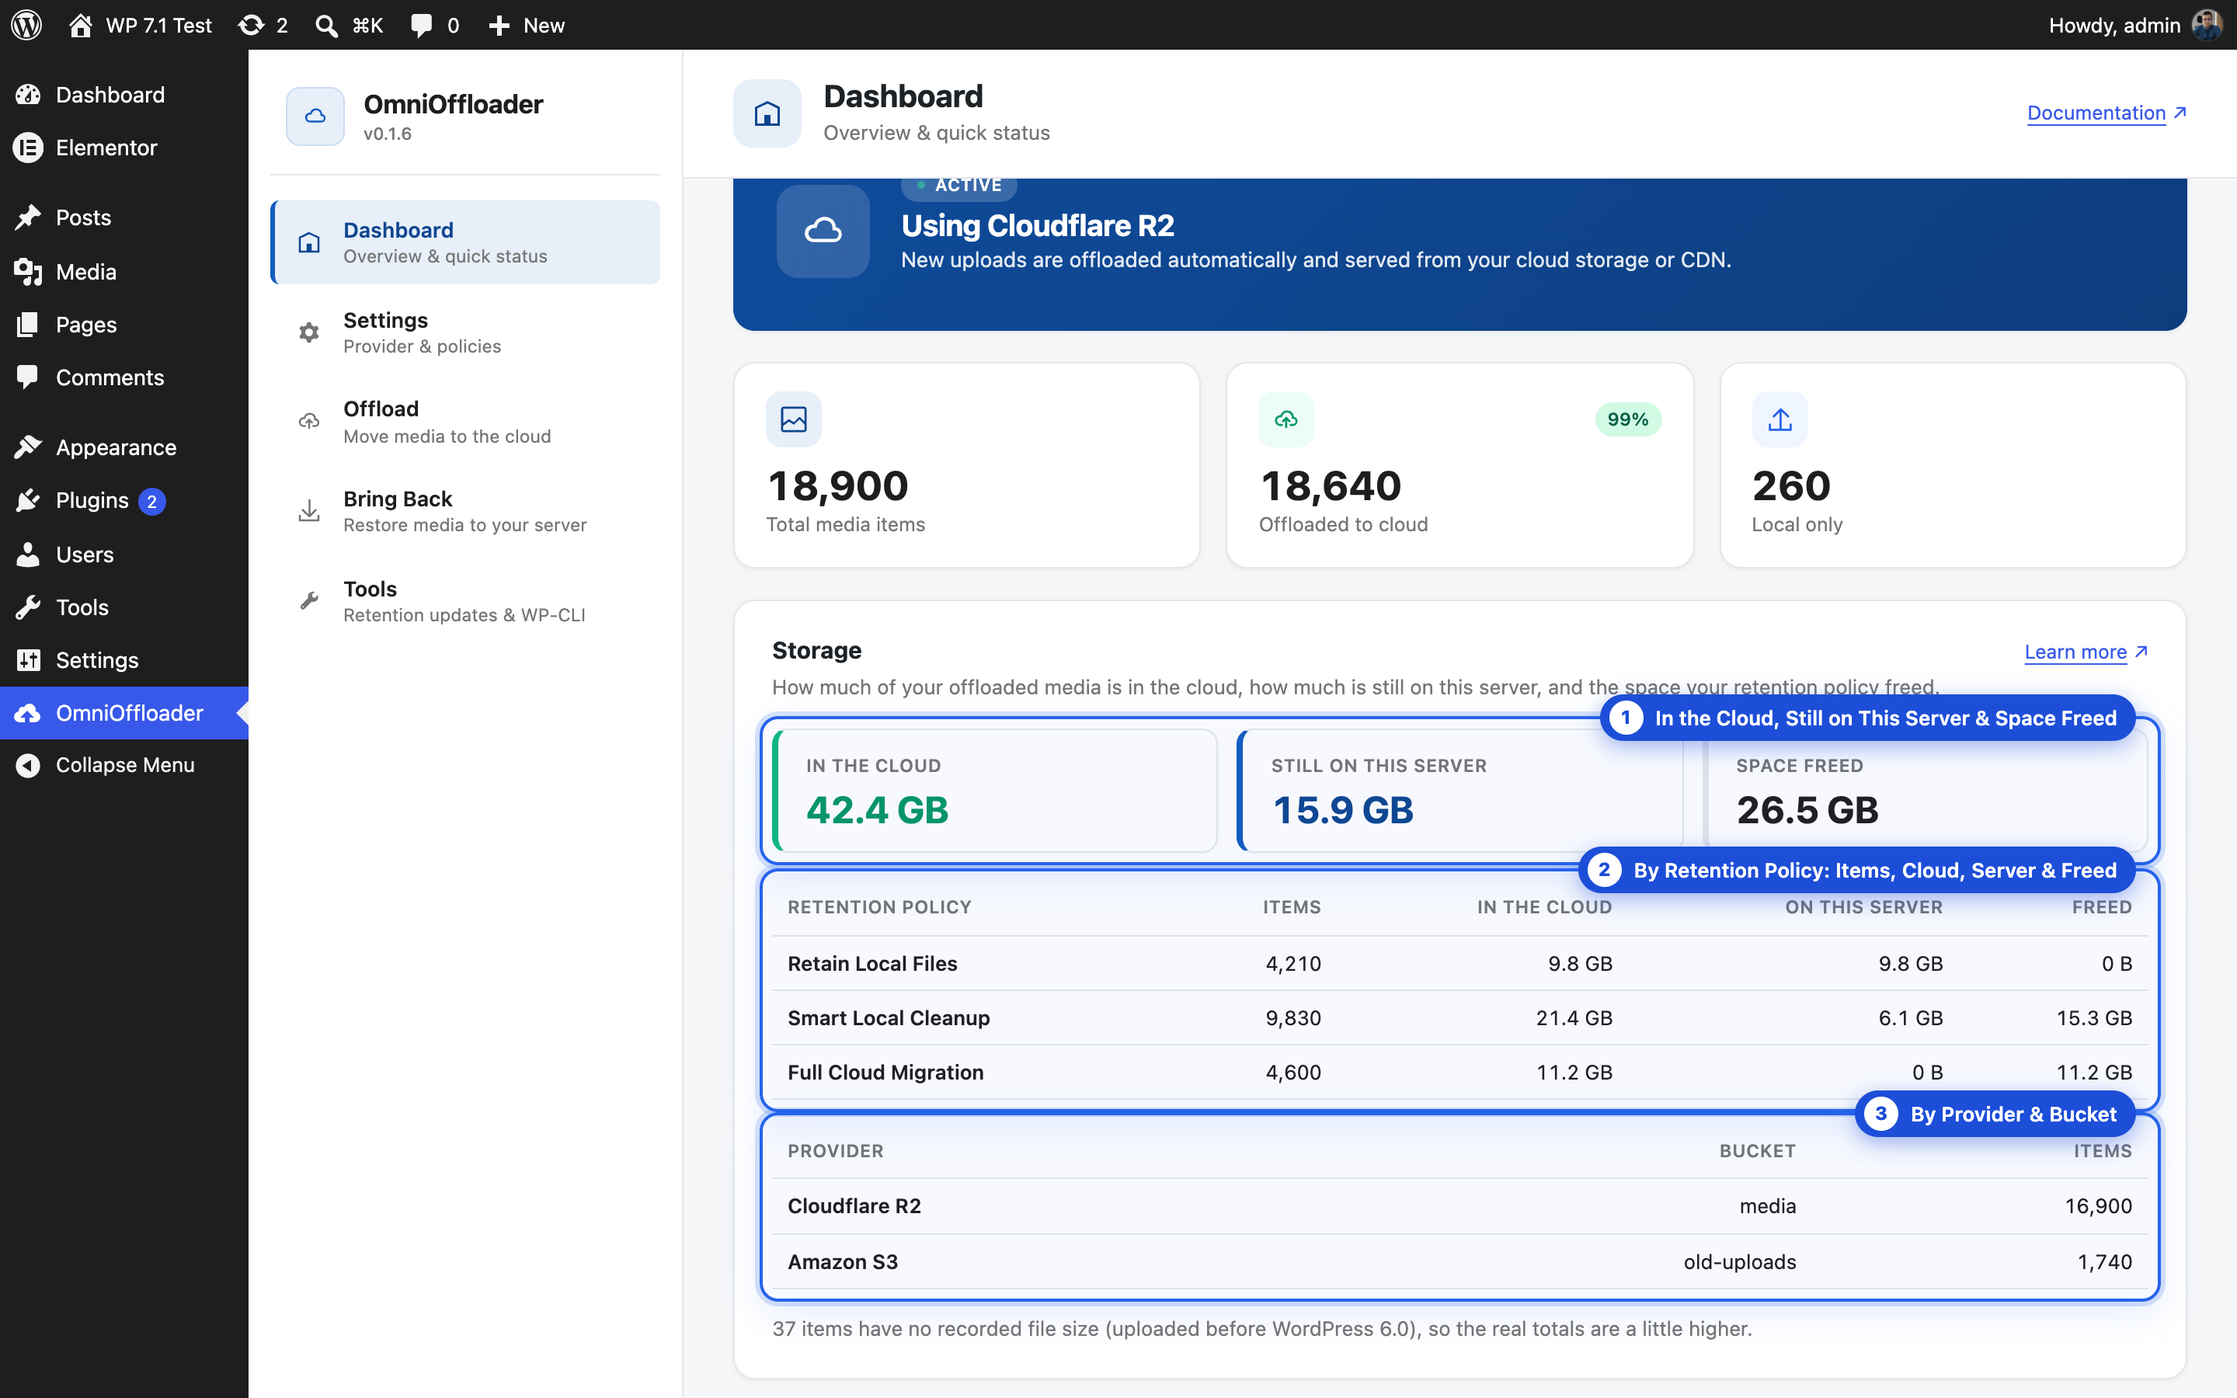
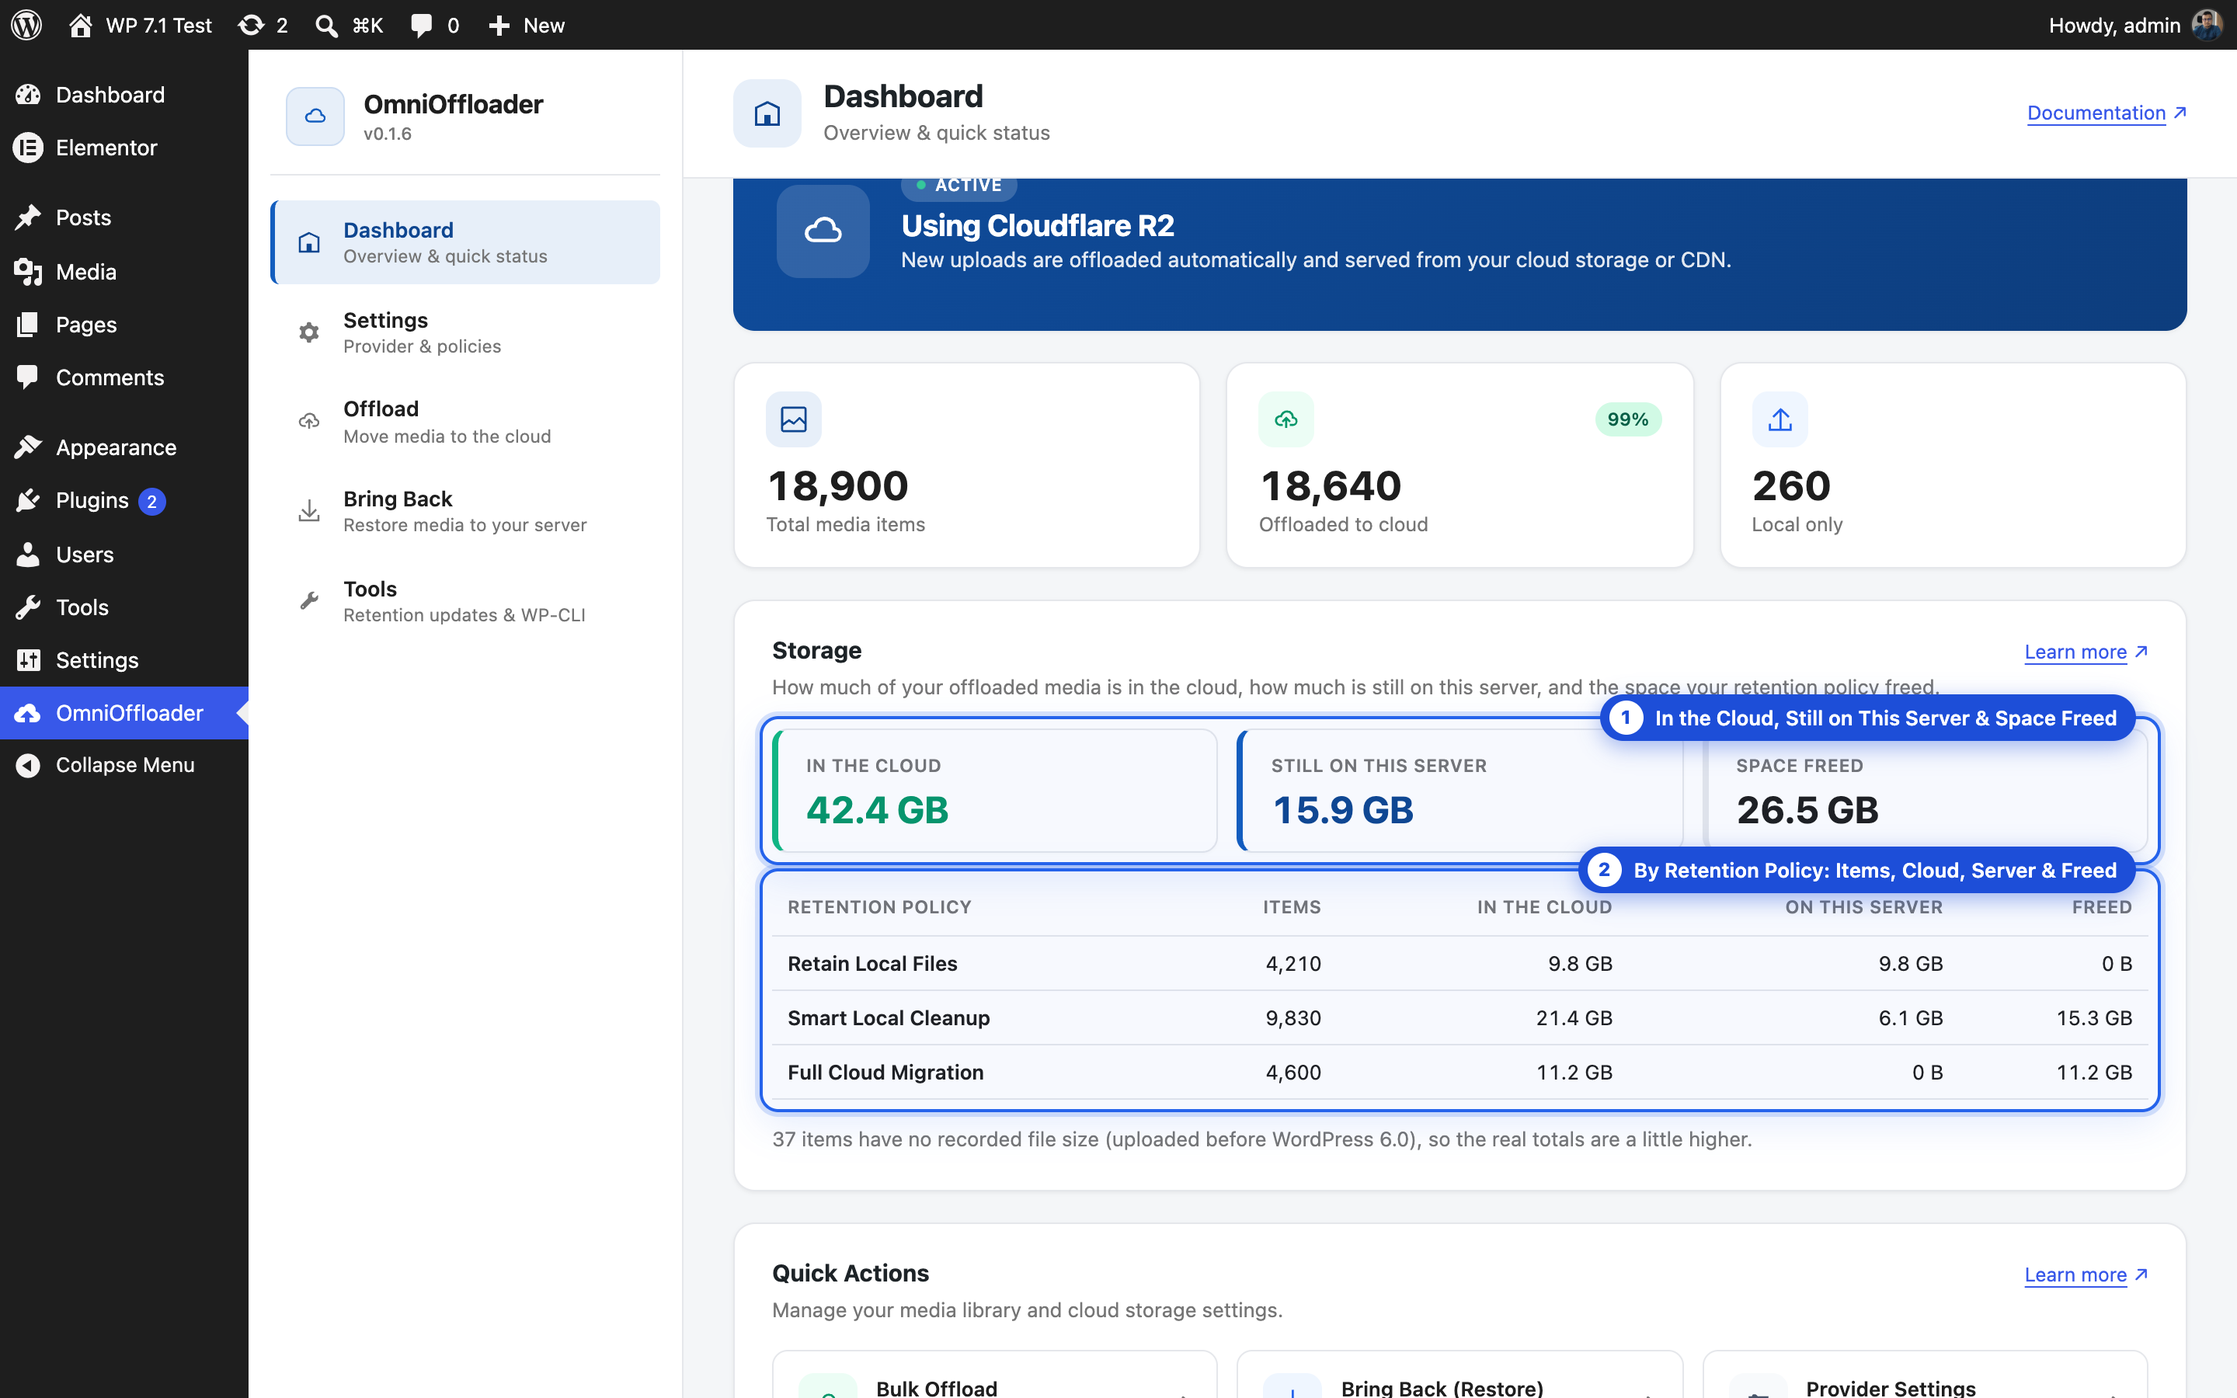
refactor: drop the provider/bucket table from the Storage card
A provider's bucket can't change while media is in it, so nearly every
site would see one row repeating the provider name. Removes the table,
Helpers::get_storage_locations(), its transient and types; docs and
screenshot updated.

Changed region(s): [[0.3125, 0.7778, 0.9688, 1.0], [0.7812, 0.9644, 0.9062, 1.0]]

diff --git a/src/components/ui/StorageCard.tsx b/src/components/ui/StorageCard.tsx
@@ -11,9 +11,8 @@ interface StorageCardProps {
 
 /**
  * Where the offloaded media's bytes are: in the cloud, still on this server,
- * and how much space the retention policy freed — overall, per policy and
- * per provider/bucket. Totals come from the running counters, so the card
- * costs no library scan.
+ * and how much space the retention policy freed — overall and per policy.
+ * Totals come from the running counters, so the card costs no library scan.
  */
 export function StorageCard( { storage }: StorageCardProps ) {
 	const policies = storage.policies.filter( ( p ) => p.count > 0 );
@@ -105,45 +104,6 @@ export function StorageCard( { storage }: StorageCardProps ) {
 					</tbody>
 				</table>
 			</div>
-
-			{ storage.locations.length > 0 && (
-				<div className="omnioffloader-storage-scroll">
-					<table className="omnioffloader-storage-table">
-						<caption className="screen-reader-text">
-							{ __(
-								'Offloaded media by provider and bucket',
-								'omnioffloader'
-							) }
-						</caption>
-						<thead>
-							<tr>
-								<th scope="col">
-									{ __( 'Provider', 'omnioffloader' ) }
-								</th>
-								<th scope="col">
-									{ __( 'Bucket', 'omnioffloader' ) }
-								</th>
-								<th scope="col">
-									{ __( 'Items', 'omnioffloader' ) }
-								</th>
-							</tr>
-						</thead>
-						<tbody>
-							{ storage.locations.map( ( location ) => (
-								<tr
-									key={ `${ location.provider }|${ location.bucket }` }
-								>
-									<th scope="row">
-										{ location.name || location.provider }
-									</th>
-									<td>{ location.bucket || '—' }</td>
-									<td>{ location.count.toLocaleString() }</td>
-								</tr>
-							) ) }
-						</tbody>
-					</table>
-				</div>
-			) }
 
 			{ storage.unsized > 0 && (
 				<p className="omnioffloader-storage-note">

diff --git a/scripts/capture-screenshots.js b/scripts/capture-screenshots.js
@@ -323,7 +323,7 @@ async function main() {
     },
 
     // 1b. Dashboard Storage card (docs only). Example numbers for a large
-    // library with all three policies and two buckets, so every row shows.
+    // library with all three policies, so every row shows.
     {
       id: 16,
       slug: 'dashboard-storage',
@@ -353,10 +353,6 @@ async function main() {
               { policy: 0, count: 4210, cloud_bytes: 10522669875, server_bytes: 10522669875, freed_bytes: 0 },
               { policy: 1, count: 9830, cloud_bytes: 22978075033, server_bytes: 6549825126, freed_bytes: 16428249907 },
               { policy: 2, count: 4600, cloud_bytes: 12025908428, server_bytes: 0, freed_bytes: 12025908428 }
-            ],
-            locations: [
-              { provider: 'cloudflare_r2', name: 'Cloudflare R2', bucket: 'media', count: 16900 },
-              { provider: 'amazon_s3', name: 'Amazon S3', bucket: 'old-uploads', count: 1740 }
             ]
           }
           }
@@ -368,8 +364,7 @@ async function main() {
       },
       annotations: [
         { selector: '.omnioffloader-media-summary', num: 1, label: 'In the Cloud, Still on This Server & Space Freed', position: 'top-right', offsetY: -16 },
-        { selector: '.omnioffloader-storage-table', index: 0, num: 2, label: 'By Retention Policy: Items, Cloud, Server & Freed', position: 'top-right', offsetY: -16 },
-        { selector: '.omnioffloader-storage-table', index: 1, num: 3, label: 'By Provider & Bucket', position: 'top-right', offsetY: -16 }
+        { selector: '.omnioffloader-storage-table', index: 0, num: 2, label: 'By Retention Policy: Items, Cloud, Server & Freed', position: 'top-right', offsetY: -16 }
       ]
     },
 

diff --git a/src/types/media.ts b/src/types/media.ts
@@ -12,7 +12,7 @@ export interface MediaStats {
 	configured: boolean;
 	provider: string;
 	safe_mode: SafeModeStatus;
-	/** Mirrors MediaCounters::storage() + Helpers::get_storage_locations(). */
+	/** Mirrors MediaCounters::storage(). */
 	storage?: StorageStats;
 }
 
@@ -23,14 +23,6 @@ export interface StoragePolicyStats {
 	cloud_bytes: number;
 	server_bytes: number;
 	freed_bytes: number;
-}
-
-/** Where offloaded media is: a provider and bucket. */
-export interface StorageLocation {
-	provider: string;
-	name: string;
-	bucket: string;
-	count: number;
 }
 
 /** Storage totals for the Dashboard (from the running counters). */
@@ -44,7 +36,6 @@ export interface StorageStats {
 	/** Offloaded items with no recorded file size (uploaded before WordPress 6.0). */
 	unsized: number;
 	policies: StoragePolicyStats[];
-	locations: StorageLocation[];
 }
 
 /** Why Safe mode is on; '' when it is off. */

diff --git a/includes/Core/Helpers.php b/includes/Core/Helpers.php
@@ -7,7 +7,6 @@
 
 namespace OmniOffloader\Core;
 
-use OmniOffloader\Providers\ProviderRegistry;
 use OmniOffloader\Services\RetentionApplier;
 
 if ( ! defined( 'ABSPATH' ) ) {
@@ -456,66 +455,6 @@ class Helpers {
 	}
 
 	/**
-	 * Offloaded attachments per provider and bucket, for the Dashboard: media
-	 * stays where it was offloaded, so after a provider or bucket change it
-	 * is split across locations.
-	 *
-	 * One grouped count of indexed meta rows, cached for an hour and cleared
-	 * with the media stats (flush_media_stats()) whenever media moves.
-	 *
-	 * @since 0.1.7
-	 *
-	 * @return array<int, array{provider: string, name: string, bucket: string, count: int}> Largest first.
-	 */
-	public static function get_storage_locations() {
-		$cached = get_transient( 'omnioffloader_storage_locations' );
-
-		if ( is_array( $cached ) ) {
-			return $cached;
-		}
-
-		global $wpdb;
-
-		// phpcs:ignore WordPress.DB.DirectDatabaseQuery.DirectQuery, WordPress.DB.DirectDatabaseQuery.NoCaching -- one grouped count, cached via transient below.
-		$rows = $wpdb->get_results(
-			"SELECT COALESCE( pv.meta_value, '' ) AS provider, COALESCE( bk.meta_value, '' ) AS bucket, COUNT(*) AS total
-			 FROM {$wpdb->postmeta} o
-			 LEFT JOIN {$wpdb->postmeta} pv ON pv.post_id = o.post_id AND pv.meta_key = 'omnioffloader_provider'
-			 LEFT JOIN {$wpdb->postmeta} bk ON bk.post_id = o.post_id AND bk.meta_key = 'omnioffloader_bucket'
-			 WHERE o.meta_key = 'omnioffloader_offloaded' AND o.meta_value = '1'
-			 GROUP BY provider, bucket
-			 ORDER BY total DESC"
-		);
-
-		$names     = array();
-		$locations = array();
-
-		foreach ( $rows as $row ) {
-			$key = ProviderRegistry::canonical_key( (string) $row->provider );
-
-			// Named by the provider class, only for providers holding media.
-			if ( ! isset( $names[ $key ] ) ) {
-				try {
-					$names[ $key ] = ProviderRegistry::create( $key )->get_name();
-				} catch ( \InvalidArgumentException $e ) {
-					$names[ $key ] = $key;
-				}
-			}
-
-			$locations[] = array(
-				'provider' => $key,
-				'name'     => $names[ $key ],
-				'bucket'   => (string) $row->bucket,
-				'count'    => (int) $row->total,
-			);
-		}
-
-		set_transient( 'omnioffloader_storage_locations', $locations, HOUR_IN_SECONDS );
-
-		return $locations;
-	}
-
-	/**
 	 * Bust the cached media stats (call after offload/restore state changes).
 	 *
 	 * Flushes transients from external object cache (Redis/Memcached) as well
@@ -534,14 +473,13 @@ class Helpers {
 		delete_transient( 'omnioffloader_restore_preflight' );
 		delete_transient( 'omnioffloader_retention_preflight' );
 		delete_transient( 'omnioffloader_move_preflight' );
-		delete_transient( 'omnioffloader_storage_locations' );
 
 		// With a persistent object cache, delete_transient() only clears the
 		// cache; rows written to wp_options before the cache was enabled would
 		// otherwise resurface. Without one, delete_transient() already removed
 		// those rows, so this is skipped (it costs two queries per key).
 		if ( wp_using_ext_object_cache() ) {
-			foreach ( array( 'omnioffloader_media_stats', 'omnioffloader_restore_preflight', 'omnioffloader_retention_preflight', 'omnioffloader_move_preflight', 'omnioffloader_storage_locations' ) as $key ) {
+			foreach ( array( 'omnioffloader_media_stats', 'omnioffloader_restore_preflight', 'omnioffloader_retention_preflight', 'omnioffloader_move_preflight' ) as $key ) {
 				delete_option( '_transient_' . $key );
 				delete_option( '_transient_timeout_' . $key );
 			}

diff --git a/includes/Api/CoreController.php b/includes/Api/CoreController.php
@@ -279,9 +279,8 @@ class CoreController extends BaseController {
 		// Never cached: the address check is one comparison.
 		$stats['safe_mode'] = SafeMode::status();
 
-		// Running totals (no library scan) and where the media is.
-		$stats['storage']              = MediaCounters::storage();
-		$stats['storage']['locations'] = Helpers::get_storage_locations();
+		// Running totals for the Storage card (no library scan).
+		$stats['storage'] = MediaCounters::storage();
 
 		return rest_ensure_response( $stats );
 	}

diff --git a/includes/Core/Uninstaller.php b/includes/Core/Uninstaller.php
@@ -68,7 +68,6 @@ class Uninstaller {
 		delete_transient( 'omnioffloader_restore_preflight' );
 		delete_transient( 'omnioffloader_retention_preflight' );
 		delete_transient( 'omnioffloader_move_preflight' );
-		delete_transient( 'omnioffloader_storage_locations' );
 
 		delete_post_meta_by_key( 'omnioffloader_status' );
 		delete_post_meta_by_key( 'omnioffloader_async_attempts' );

diff --git a/includes/Core/Deactivator.php b/includes/Core/Deactivator.php
@@ -48,7 +48,6 @@ class Deactivator {
 		delete_transient( 'omnioffloader_restore_preflight' );
 		delete_transient( 'omnioffloader_retention_preflight' );
 		delete_transient( 'omnioffloader_move_preflight' );
-		delete_transient( 'omnioffloader_storage_locations' );
 		delete_site_transient( Plugin::cli_job_lock_key() );
 		Plugin::clear_cli_run();
 	}

diff --git a/CLAUDE.md b/CLAUDE.md
@@ -179,7 +179,7 @@ Progress polling (`useBulkOffload`, `useBringBack`, `useRetentionSync`, `useMove
 
 All mutations via REST; `@wordpress/api-fetch` sends the nonce. Every route: explicit `permission_callback` (`manage_options`; only the read-only `/offload/attachment-status` uses `upload_files`), `args` with type/sanitize callbacks **plus `'validate_callback' => 'rest_validate_request_arg'`** (core skips schema checks — type, enum, min/max — when only a sanitizer is given), `WP_REST_Server` method constants, `rest_ensure_response()` / `WP_Error` with status + stable `omnioffloader_*` error codes.
 
-- `GET/POST /core/settings` · `GET /core/providers` · `GET /core/stats` (includes `safe_mode` and `storage`: `MediaCounters::storage()` totals + `Helpers::get_storage_locations()`, a grouped count per provider/bucket cached in `omnioffloader_storage_locations` and cleared by `flush_media_stats()` — the Dashboard Storage card) · `GET /core/cli-job` (the WP-CLI job running now, from its live claim + `omnioffloader_cli_run`; the admin `useCliJob` checks on open, on tab return and after a 409 `omnioffloader_bulk_running`, and polls only while one runs) · `POST /core/safe-mode/live` · `POST /core/folder-claim/take-over`
+- `GET/POST /core/settings` · `GET /core/providers` · `GET /core/stats` (includes `safe_mode` and `storage`: `MediaCounters::storage()` totals for the Dashboard Storage card) · `GET /core/cli-job` (the WP-CLI job running now, from its live claim + `omnioffloader_cli_run`; the admin `useCliJob` checks on open, on tab return and after a 409 `omnioffloader_bulk_running`, and polls only while one runs) · `POST /core/safe-mode/live` · `POST /core/folder-claim/take-over`
 - `GET/POST /provider/credentials` · `POST /provider/test-connection` — all take a provider arg
 - `POST /offload/attachment/{id}` · `POST /offload/bulk` · `GET /offload/bulk/progress` · `POST /offload/bulk/cancel` · `GET /offload/errors` (`state` all/local/offloaded, `Helpers::failed_ids()`) · `POST /offload/errors/retry` (queues every failed offload as a bulk offload — Tools → Failed Items)
 - `GET /bring-back/preflight` · `POST /bring-back/attachment/{id}` · `POST /bring-back/bulk` · `GET /bring-back/bulk/progress` · `POST /bring-back/bulk/cancel`
@@ -213,7 +213,7 @@ Credentials: `GET` returns secrets masked (`is_set: true`); `POST` ignores maske
 
 The policy is applied once at offload time (`LocalCleaner`). Changing the setting later does nothing to existing media until `RetentionApplier` runs (Tools page, `wp omnioffloader retention`). Stricter: every local file is verified in the bucket **by size** before deletion; missing objects are uploaded first; mismatches are kept and logged. Looser: `AttachmentRestorer::restore_local_copies()` downloads files while the attachment stays offloaded.
 
-**Transients:** `omnioffloader_media_stats`, `omnioffloader_storage_locations`, `omnioffloader_retention_preflight` (only the filtered scan), `omnioffloader_counters_checked`, `omnioffloader_move_preflight` (count of media outside the current folder for the admin screens, keyed by provider/bucket/folder, cleared by `flush_media_stats()`), `omnioffloader_activation_redirect`.
+**Transients:** `omnioffloader_media_stats`, `omnioffloader_retention_preflight` (only the filtered scan), `omnioffloader_counters_checked`, `omnioffloader_move_preflight` (count of media outside the current folder for the admin screens, keyed by provider/bucket/folder, cleared by `flush_media_stats()`), `omnioffloader_activation_redirect`.
 
 **Cron:** watchdog event only while a bulk job runs; unschedule when idle.
 

diff --git a/docs/src/content/docs/features/dashboard.md b/docs/src/content/docs/features/dashboard.md
@@ -16,7 +16,7 @@ sidebar:
 
 ## Storage
 
-![The Storage card on the Dashboard: totals in the cloud, still on the server and freed (1), a table by retention policy (2) and a table by provider and bucket (3)](/images/screenshots/dashboard-storage-marked.png)
+![The Storage card on the Dashboard: totals in the cloud, still on the server and freed (1), and a table by retention policy (2)](/images/screenshots/dashboard-storage-marked.png)
 
 The **Storage** card shows, for your offloaded media:
 
@@ -24,10 +24,7 @@ The **Storage** card shows, for your offloaded media:
 - **Still on this server:** the files your [retention policy](/features/retention-policies/) keeps on your server. With **Retain Local Files** that is everything; with **Smart Local Cleanup**, the originals; with **Full Cloud Migration**, nothing.
 - **Space freed:** what the retention policy removed from your server.
 
-Below that, two tables:
-
-- **By retention policy:** how many items follow each policy, and their bytes in the cloud, on the server and freed. Media keeps the policy it was offloaded (or last updated) with, so after you change the policy the table can show more than one row. [Apply the new policy to existing media](/features/retention-policies/) from the Tools screen.
-- **By provider and bucket:** how many items are in each place. Media stays where it was offloaded, so after a provider or bucket change it can be split across several.
+Below that, a table **by retention policy**: how many items follow each policy, and their bytes in the cloud, on the server and freed. Media keeps the policy it was offloaded (or last updated) with, so after you change the policy the table can show more than one row. [Apply the new policy to existing media](/features/retention-policies/) from the Tools screen.
 
 The totals are kept up to date as your media changes, so the card shows at once, however large your library is.
 
